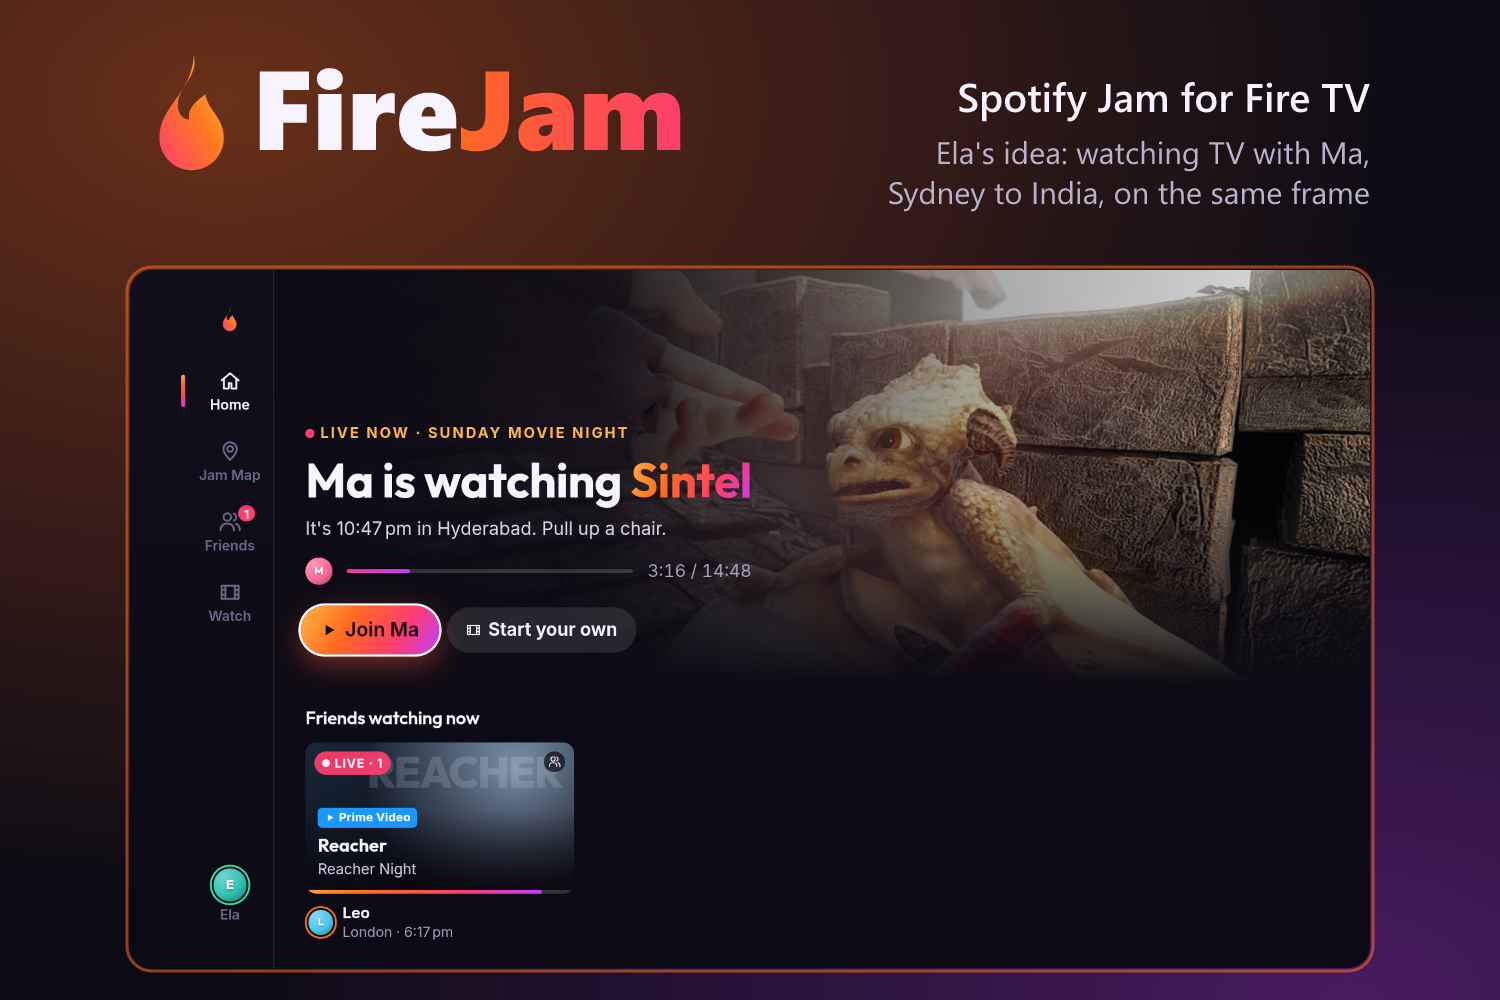
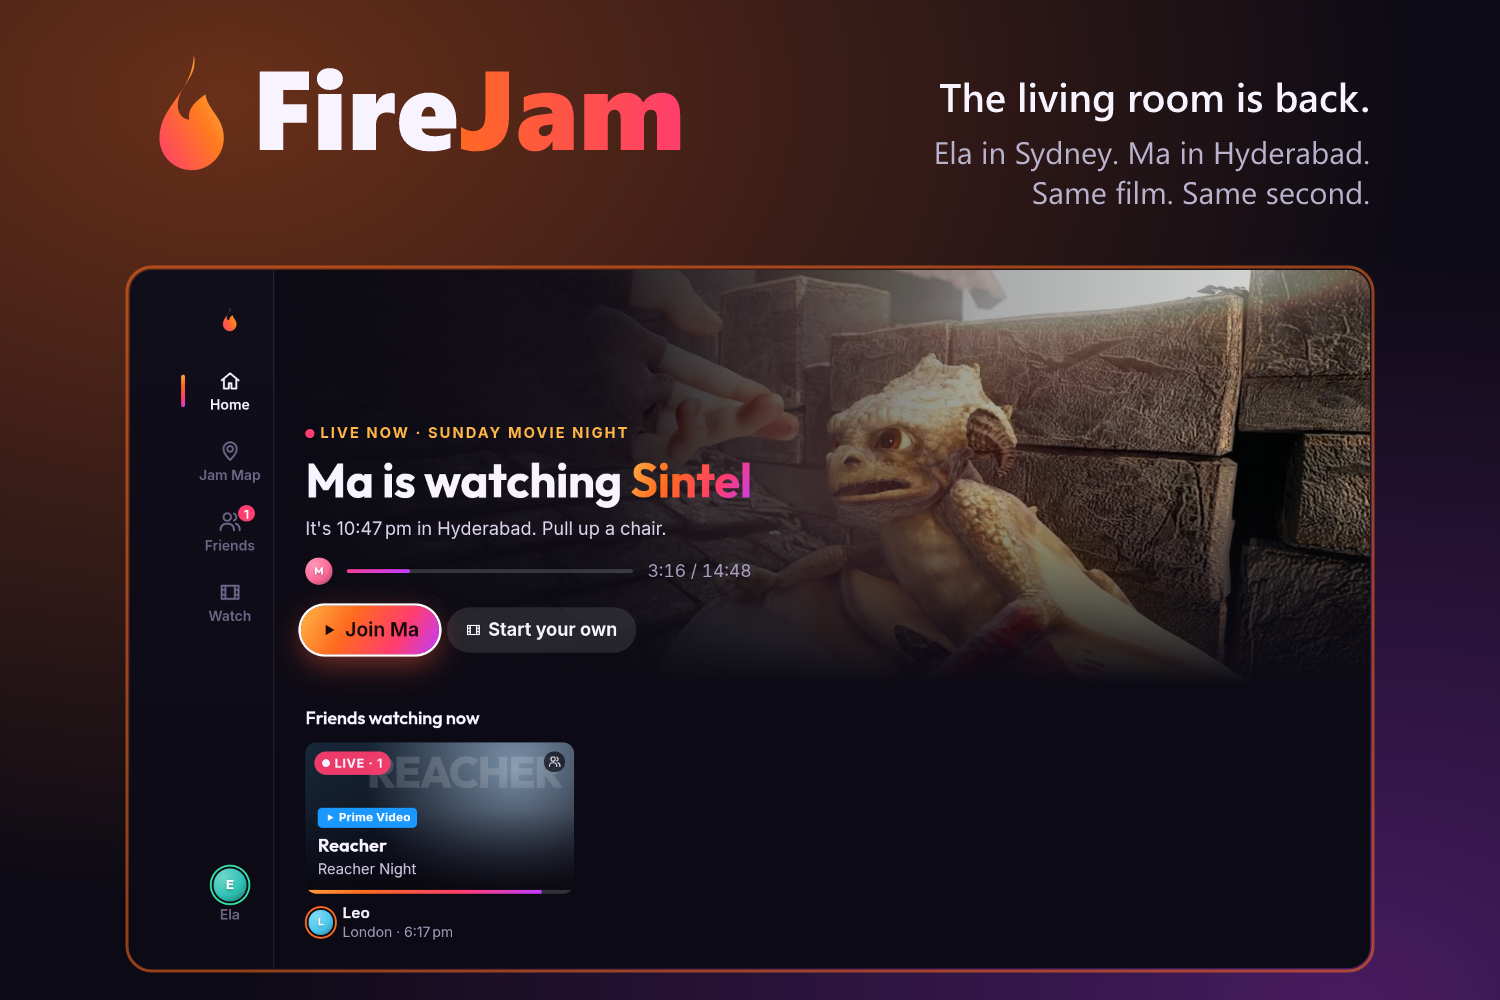
Docs: tell Ela's story the way the launch film does

Changed region(s): [[0.5827, 0.062, 0.92, 0.217]]

diff --git a/docs/SUBMISSION.md b/docs/SUBMISSION.md
@@ -7,69 +7,82 @@ Drafts for the Devpost form, ready to paste. "What we learned" is a first draft 
 
 ## Tagline
 
-The living room is back. FireJam makes watching TV multiplayer.
+The living room is dead. Ela brought it back. FireJam puts her in Sydney and her Ma in Hyderabad on the same film, at the same second, on Fire TV.
 
 ## Inspiration
 
-FireJam is Ela's idea. Ela lives in Sydney; her Ma lives in India, five and a half hours behind. Growing up, TV was the thing they did together on one couch: the same show, the same laugh, Ma asking "have you eaten yet?" in the ad break. Now there's an ocean between them. Video calls are for talking, and nothing lets you just sit and watch something together.
+When Ela was small, Sunday night meant one thing. Ma, Ela, the sofa, one blanket, one TV. Nobody remembers what they watched. Everybody remembers watching it together.
 
-Spotify Jam showed how good "see what my people are playing, tap to join" feels for music. Ela asked why the biggest screen in the house can't do the same, and FireJam is the answer: Ma presses play in India, and Ela's Fire TV in Sydney is on the same frame, with her chat and reactions on screen. The living room, back.
+Then they grew up and moved apart. Ma is in Hyderabad. Ela is in Sydney. Same shows, nine thousand kilometres apart, texting "did you see that?" into the dark.
+
+We have more screens than ever: a TV in every room, a phone in every hand. And we don't share moments anymore. We share links. "Have you seen it yet?" "No spoilers." "I'll watch it later."
+
+The living room is dead.
+
+FireJam is Ela's idea for bringing it back.
 
 ## What it does
 
-FireJam is Spotify Jam for Fire TV.
+Ela turns on her Fire TV. Before she has picked anything, it tells her: *Ma is watching Sintel. It's 8:42 pm in Hyderabad. Pull up a chair.*
 
-- **See what friends are watching.** Home shows friends' live jams with their city and local time: "Ma is watching Sintel. It's 8:42 pm in Hyderabad."
-- **Jam Map.** A Snap-Map-style world map of friends and public jams. Arcs connect everyone watching together. Move between people with the D-pad, then join, add a friend, or invite. Ghost mode hides you.
-- **Join in one click, same frame.** Every screen in a jam plays from one shared playhead, typically within a few tens of milliseconds. Anyone can play, pause, skip or switch film, and everyone sees who did it.
-- **Friends, requests and invites.** Friends-only, public and invite-only jams. Hosts get a prompt when someone knocks. Four-letter join codes.
-- **Friend pop-ups.** When a friend starts watching, your Fire TV pops up "🔥 Ma is watching Sintel" over whatever is on, even with FireJam closed; the notification opens FireJam straight into their jam.
-- **Follows Fire TV profiles.** Each Fire TV profile is one person: pick your FireJam profile once, and from then on switching Fire TV profiles switches FireJam at the same moment, pop-ups and activity sharing included. Fire TV keeps profile names private, so you set your name once in FireJam's profile (Name).
-- **"Alexa, pause."** Alexa's transport commands (pause, play, rewind 30 seconds, restart) drive the whole jam for everyone.
-- **Laptops join Prime jams too.** A Windows bridge keeps the Prime Video app on a PC in the same jam as the TVs, through Windows' media controls.
-- **Friend activity for everyone.** Like Spotify's friend activity: see what friends are watching right now, even outside FireJam (Prime Video, YouTube, any app with a media session), and what they watched recently and with whom. If a friend is on a Prime title and you both have Prime, one button starts a jam at their exact spot.
-- **Share first.** Starting a jam opens its invite: a QR code anyone can scan (it opens a join page with the code and how to join from a TV or a browser) and a four-letter code. The jam waits until the host presses Start; for Prime titles every TV then opens Prime Video together.
-- **Prime-first Watch screen.** With Prime Video, the Watch screen leads with 19 Prime shows and films (Fallout, Reacher, The Family Man, Mirzapur, Panchayat…); FireJam's free films sit below.
-- **Private sign-in.** Everyone's id is visible on the map, so an id alone signs nobody in: a screen needs the profile's secret token (carried by the phone-pairing QR) or has to be a TV the profile is bound to.
-- **Your phone is the remote.** Pair your phone from the Invite screen to send reactions and chat with no app install (works on iPhone in Safari). Reactions and messages pop up on every TV, over Prime Video too.
-- **Voice, remote and phone in one flow.** The same jam answers to "Alexa, pause", the D-pad and a phone.
-- **Any TV can join.** Fire TV first, and the same app runs on Android TV / Google TV (tested on a Google TV emulator, including a two-switch permission setup done with the remote). Samsung/LG join in the TV browser.
-- **Prime Video jams, bring your own subscription.** If everyone in a jam has Prime Video, each TV opens the title in its own Prime Video app and FireJam keeps them in step through Android's media session controls, with reactions drawn on top. No Prime, no entry: the server enforces it for starting, joining, invites and switching titles.
+One click and she's on the sofa. Same film, same second. Ma pauses, and Ela's TV pauses too and says who did it. Ma types "Have you eaten yet?" on her phone, and it pops up on Ela's TV, over the film.
+
+That's FireJam: Spotify Jam for the biggest screen in the house.
+
+- **See your people.** Home opens on who's watching right now, where they are, and what time it is there.
+- **The Jam Map.** Everyone you love, lit up by what they're watching. A world map of friends and public jams, with arcs between people watching together. Move pin to pin with the D-pad, then join, add a friend or invite. Ghost mode hides you.
+- **One click, same frame.** Every screen in a jam plays from one shared clock, typically within a few tens of milliseconds. Anyone can play, pause, skip or switch film, and everyone sees who did it.
+- **"Alexa, pause."** Pauses the jam for everyone. Play, rewind 30 seconds and restart work too.
+- **Your phone is the keyboard.** Scan a QR code; there's no app to install. Chat and reactions from an iPhone or Android phone pop up on every TV in the jam, even over Prime Video.
+- **Prime Video, together.** If everyone in the jam has Prime, every TV opens the title in its own Prime Video app and FireJam keeps them in step. The Watch screen leads with 19 Prime titles: Fallout, Reacher, The Family Man, Mirzapur, Panchayat. No Prime, no entry; the server enforces it.
+- **Share first.** A new jam opens on its invite: a QR code anyone can scan and a four-letter code. It waits until the host presses Start.
+- **A tap on the shoulder.** When a friend presses play, your Fire TV says so over whatever is on: "🔥 Ma is watching Sintel." One press takes you into their jam, even with FireJam closed.
+- **It knows who's on the sofa.** No forms. FireJam follows Fire TV profiles: switch profile and FireJam switches with you. An id alone signs nobody in; a profile needs its secret token or a TV it trusts.
+- **"Pick for us."** Amazon Bedrock picks what the group watches next, and it knows everyone's bedtime: when it's late for Ma, it picks something short and says why.
+- **Everyone's invited.** Fire TV first. The same app runs on Android TV and Google TV, a Windows bridge brings a laptop's Prime Video into the jam, and any other smart TV joins in its browser.
 
 ## How we built it
 
 - **TV app:** React + TypeScript (Vite) built for the 10-foot UI. A custom spatial-navigation layer moves focus by on-screen geometry, so every screen works with a D-pad without hand-wired focus maps. Layout scales from the Fire TV WebView's 960×540 CSS pixels up to 4K.
-- **Fire OS shell:** a small Kotlin app (`android/`) with a full-screen WebView, leanback launcher banner, and forwarding for the remote's Back and media keys, which WebViews don't pass to JavaScript. Hold Menu to point the TV at a different server.
-- **Realtime server:** Node + Socket.IO. Presence, friend graph, jams, join requests and invites, rate-limited reactions and chat, JSON persistence for profiles.
-- **Sync engine:** the server stores each jam as `(playing, position, updatedAt)` on its clock. Each screen estimates its clock offset NTP-style, computes the expected playhead, and corrects drift by nudging `playbackRate` (±10%, inaudible) or, for big jumps, seeking ahead by the device's measured seek latency.
-- **Map:** `d3-geo` Natural Earth projection over `world-atlas` data, rendered as SVG with HTML pins layered on top so they're focusable.
-- **Content:** Blender Foundation open movies (CC-BY), MP4 and HLS (`hls.js`), streamed by FireJam itself. Prime Video titles play in each viewer's own Prime Video app; the Fire TV shell follows Prime Video's media session (notification-listener access) and draws jam bubbles over it.
+- **Fire OS app:** a small Kotlin app with a full-screen WebView and a launcher banner. It forwards the remote's Back and media keys (WebViews don't pass them to JavaScript), answers Alexa through a MediaSession, follows Prime Video's media session, follows the active Fire TV profile, and draws chat and pop-ups over other apps.
+- **Realtime server:** Node + Socket.IO. Presence, friend graph, jams, join requests and invites, rate-limited reactions and chat.
+- **Sync engine:** the server stores each jam as (playing, position, updatedAt) on its own clock. Each screen estimates its clock offset NTP-style, computes the expected playhead, and corrects drift by nudging the playback rate (±10%, inaudible) or, for big jumps, seeking ahead by the device's measured seek latency.
+- **On AWS:** the server runs on an EC2 Graviton (t4g.micro) instance in Sydney behind CloudFront, which carries HTTPS and WebSockets worldwide. Releases go through S3 and deploys through Systems Manager, with no SSH. Amazon Bedrock (Nova Lite, Converse API) powers "Pick for us".
+- **Map:** d3-geo Natural Earth projection over world-atlas data, rendered as SVG with focusable HTML pins on top.
+- **Content:** Blender Foundation open movies (CC-BY) streamed by FireJam itself, plus Prime Video titles that play in each viewer's own Prime Video app.
 
 ## Challenges we ran into
 
-- **Remote input in a WebView.** Back and media keys never reach JavaScript, so the native shell forwards them and asks the web app whether it handled Back before exiting.
+- **Remote input in a WebView.** Back and media keys never reach JavaScript, so the native app forwards them and asks the web app whether it handled Back before exiting.
 - **Spatial navigation that feels right.** Early versions jumped from a card row into the side rail, or skipped rows. The fix was preferring the current group, requiring a candidate's centre to lie past the current element's edge, and scoring same-row neighbours far above diagonal ones.
-- **Performance on a streaming stick.** Profiling the real device showed the TV burning 58% of a CPU core on an idle Home screen: progress bars animated `width` (a page layout every frame) and decorative loops kept it redrawing at 60 fps. Fixing those took idle CPU to 8% (Home) and 19% (Jam Map, from 128%), and giving the map its own layer removed the ~130 ms frame drops when moving between pins.
-- **Fire TV profiles without an API.** The profile-switch broadcast is restricted to Amazon's apps, so FireJam follows the active profile id in secure settings instead, hashed before it leaves the TV.
-- **Sync on slow hardware.** Naive "seek when off by more than X" loops forever on a Fire TV Stick, because each seek lands late. Measuring seek latency and aiming ahead, plus rate nudging for small drift, fixed it.
+- **Performance on a streaming stick.** Profiling the real device showed the TV burning 58% of a CPU core on an idle Home screen: progress bars animated their width (a page layout every frame) and decorative loops kept it redrawing at 60 fps. Fixing those took idle CPU to 8% on Home and 19% on the Jam Map (from 128%).
+- **Fire TV profiles without an API.** The profile-switch broadcast is reserved for Amazon's apps, so FireJam follows the active profile id in secure settings instead, hashed before it leaves the TV.
+- **Sync on slow hardware.** "Seek when off by more than X" loops forever on a Fire TV Stick, because each seek lands late. Measuring seek latency and aiming ahead, plus rate nudging for small drift, fixed it.
 
 ## Accomplishments that we're proud of
 
-- Pausing on a laptop in "Hyderabad" pauses a Fire TV in "Sydney" with a banner saying who did it, and the corner reads *In sync · 18 ms*.
-- The whole app is usable with nothing but a Fire TV remote.
+- A pause on one screen pauses every TV in the jam, with a banner saying who did it, and the corner reads *In sync · 18 ms*.
+- The whole app works with nothing but a Fire TV remote, or your voice.
+- It runs on a real Fire TV Stick 4K Max, not just a simulator, and idles at 8% CPU on Home.
 
 ## What we learned
 
-- A TV is not a big phone. Measuring on the real Fire TV Stick changed the design: endless CSS animations that look free on a laptop cost half a CPU core on a stick, and text that looked fine on a monitor was below Amazon's 28 px minimum from the sofa.
-- Sync is mostly about time, not video. The hard parts were a TV clock 162 s off, seeks that land late, Prime Video reporting position 0 during ads, and timers that freeze when an app is in the background.
-- Fire TV gives apps a lot (media sessions, Alexa transport controls, overlays), but the things a social app needs most, Prime Video deep links and Fire TV profiles, are reserved for Amazon's own apps. Finding the edges of what's allowed was half the work.
+- A TV is not a big phone. Endless CSS animations that look free on a laptop cost half a CPU core on a stick, and text that looked fine on a monitor was below Amazon's 28 px minimum from the sofa.
+- Sync is about time, not video. The hard parts were a TV clock 162 s off, seeks that land late, Prime Video reporting position 0 during ads, and timers that freeze in the background.
+- Fire TV gives apps a lot: media sessions, Alexa transport controls, overlays. But the two things a social app needs most, Prime Video deep links and Fire TV profiles, are reserved for Amazon's own apps. Finding the edges of what's allowed was half the work.
 
 ## What's next for FireJam
 
-- Sync the apps people already watch in, through Fire TV deep links and playback hooks, instead of an in-app catalogue.
-- "Alexa, start a jam with Mum." Voice start, join and invite through Alexa+.
-- Push-to-talk from the phone companion, ducking the film's audio while someone speaks.
+- "Alexa, start a jam with Ma." Start, join and invite by voice through Alexa+.
+- Push-to-talk from the phone, ducking the film while someone speaks.
+- Deep links into the apps people already watch in, instead of a catalogue.
 - Login with Amazon, contact-based friend discovery, and moderation before public jams go beyond a demo.
+
+---
+
+They told us the living room was dead. We never stopped loving the same things. We just stopped feeling them together.
+
+FireJam is the living room, back. Pull up a chair, Ma.
 
 ## Built with
 

diff --git a/README.md b/README.md
@@ -2,21 +2,25 @@
 
 **The living room is back.** FireJam makes watching TV multiplayer again.
 
-**FireJam is Ela's idea.** Ela lives in Sydney; her Ma lives in India, five and a half hours behind. TV used to be what they did together on one couch: the same show, the same laugh, Ma asking "have you eaten yet?" in the ad break. Now there's an ocean between them, and while TVs got smarter, watching became single-player. Ela wanted Ma to press play in India and have her Fire TV in Sydney land on the same frame, with Ma's messages popping up on screen. That's FireJam.
+**FireJam is Ela's idea.** When Ela was small, Sunday night meant one thing. Ma, Ela, the sofa, one blanket, one TV. Nobody remembers what they watched. Everybody remembers watching it together.
+
+Then they grew up and moved apart. Ma is in Hyderabad. Ela is in Sydney. Same shows, nine thousand kilometres apart, texting "did you see that?" into the dark. We have more screens than ever, and we don't share moments anymore. We share links.
+
+The living room is dead. FireJam brings it back.
 
 FireJam is Spotify Jam for Fire TV. You see what your friends are watching, join them in one click, and land on the exact same frame. Everyone can play, pause and skip, and everyone sees who did it. Reactions float up on every screen, your phone becomes the keyboard, and a Snap-Map-style **Jam Map** shows who's watching what around the world.
 
 > Built for the Amazon Developer Hackathon 2026, **Fire TV track** (family entertainment, multi-modal UX).
 
-![FireJam Home on a Fire TV Stick 4K Max: Ma is watching Sintel in Hyderabad](docs/gallery/01-home.png)
+![FireJam: the living room is back](docs/gallery/00-thumbnail.png)
 
-| Watching with Ma | Jam Map |
+| Home | Jam Map |
 | --- | --- |
-| ![Ma's chat and reactions on Ela's TV](docs/gallery/05-watching-with-ma.png) | ![Jam Map with friends around the world](docs/gallery/02-jam-map.png) |
-| **Share first** | **Prime Video jam** |
-| ![A new jam opens its invite QR first](docs/gallery/04-share-first-invite.png) | ![Prime Video jam invite](docs/gallery/07-prime-video-jam.png) |
-| **Prime-first Watch screen** | **Shared controls** |
-| ![Prime Video titles first](docs/gallery/03-watch-prime-first.png) | ![Player controls](docs/gallery/06-player-controls.png) |
+| ![Ma is watching Sintel in Hyderabad. One click pulls up a chair.](docs/gallery/01-home.png) | ![Everyone you love, lit up by what they're watching](docs/gallery/02-jam-map.png) |
+| **Share first** | **Prime Video, together** |
+| ![Every jam opens on its invite](docs/gallery/04-share-first-invite.png) | ![Every TV opens its own Prime Video, kept in step](docs/gallery/07-prime-video-jam.png) |
+| **Prime-first Watch screen** | **Anyone can pause** |
+| ![Prime Video titles first](docs/gallery/03-watch-prime-first.png) | ![Everyone sees who did; "Alexa, pause" works too](docs/gallery/06-player-controls.png) |
 
 All screenshots were taken on a real Fire TV Stick 4K Max running FireJam against the live AWS server.
 
